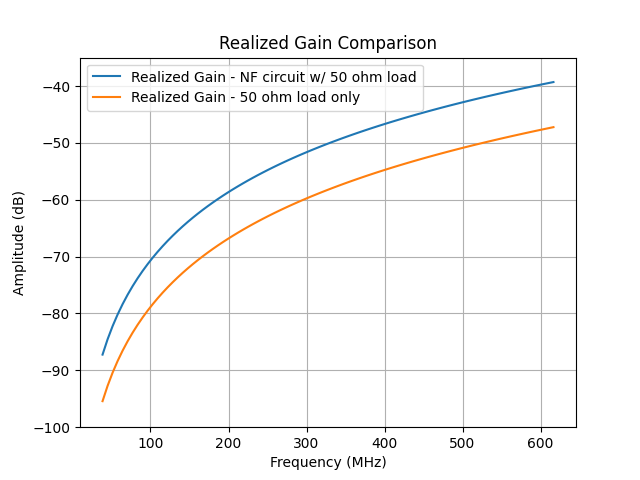
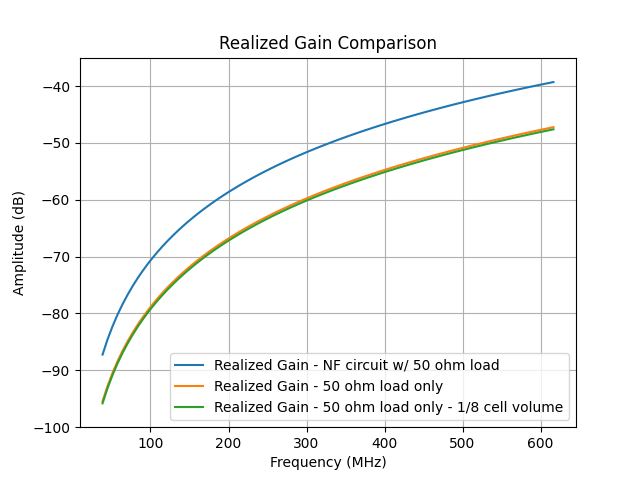
Add files via upload

diff --git a/examples/non_Foster_recieving_monopole/plot.py b/examples/non_Foster_recieving_monopole/plot.py
@@ -14,15 +14,21 @@ data = np.transpose(data)
 data2 = np.loadtxt('Aperture_area_50.csv', delimiter=',', skiprows=1)
 data2 = np.transpose(data2)
 
+# load the aperture area where the non foster element is not used but the cell size is reduced by 1/2 in all directions (1/8 of the volume)
+data3 = np.loadtxt('Aperture_area_50_0p125V_cellsize.csv', delimiter=',', skiprows=1)
+data3 = np.transpose(data3)
+
 # output is A_e * 50 in a log scale since the spice load of interest here is a simple 50 ohm load - true for both simulations
 # need to divide by 50 to get A_e but since in log scale, we subtract a log
 
 A_e_corrected_mag = data[3] - 10*np.log10(50)
 A_e_corrected_mag2 = data2[3] - 10*np.log10(50)
+A_e_corrected_mag3 = data3[3] - 10*np.log10(50)
 
 plt.figure()
 plt.plot(data[0]*1000, A_e_corrected_mag, label = 'Aperture Area - NF circuit w/ 50 ohm load')
 plt.plot(data2[0]*1000, A_e_corrected_mag2, label = 'Aperture Area - 50 ohm load only')
+plt.plot(data3[0]*1000, A_e_corrected_mag3, label = 'Aperture Area - 50 ohm load only - 1/8 cell volume')
 plt.xlabel('Frequency (MHz)')
 plt.ylabel('Amplitude (dB)')
 plt.ylim(-90,-55)
@@ -35,10 +41,12 @@ lam = 3E8 / (data[0] * 1E9) #same for data2 as well
 
 G_r = A_e_corrected_mag + 10 * np.log10(4*np.pi/(lam**2))
 G_r2 = A_e_corrected_mag2 + 10 * np.log10(4*np.pi/(lam**2))
+G_r3 = A_e_corrected_mag3 + 10 * np.log10(4*np.pi/(lam**2))
 
 plt.figure()
 plt.plot(data[0]*1000, G_r, label = 'Realized Gain - NF circuit w/ 50 ohm load')
 plt.plot(data2[0]*1000, G_r2, label = 'Realized Gain - 50 ohm load only')
+plt.plot(data3[0]*1000, G_r3, label = 'Realized Gain - 50 ohm load only - 1/8 cell volume')
 plt.xlabel('Frequency (MHz)')
 plt.ylabel('Amplitude (dB)')
 plt.ylim(-100,-35)
